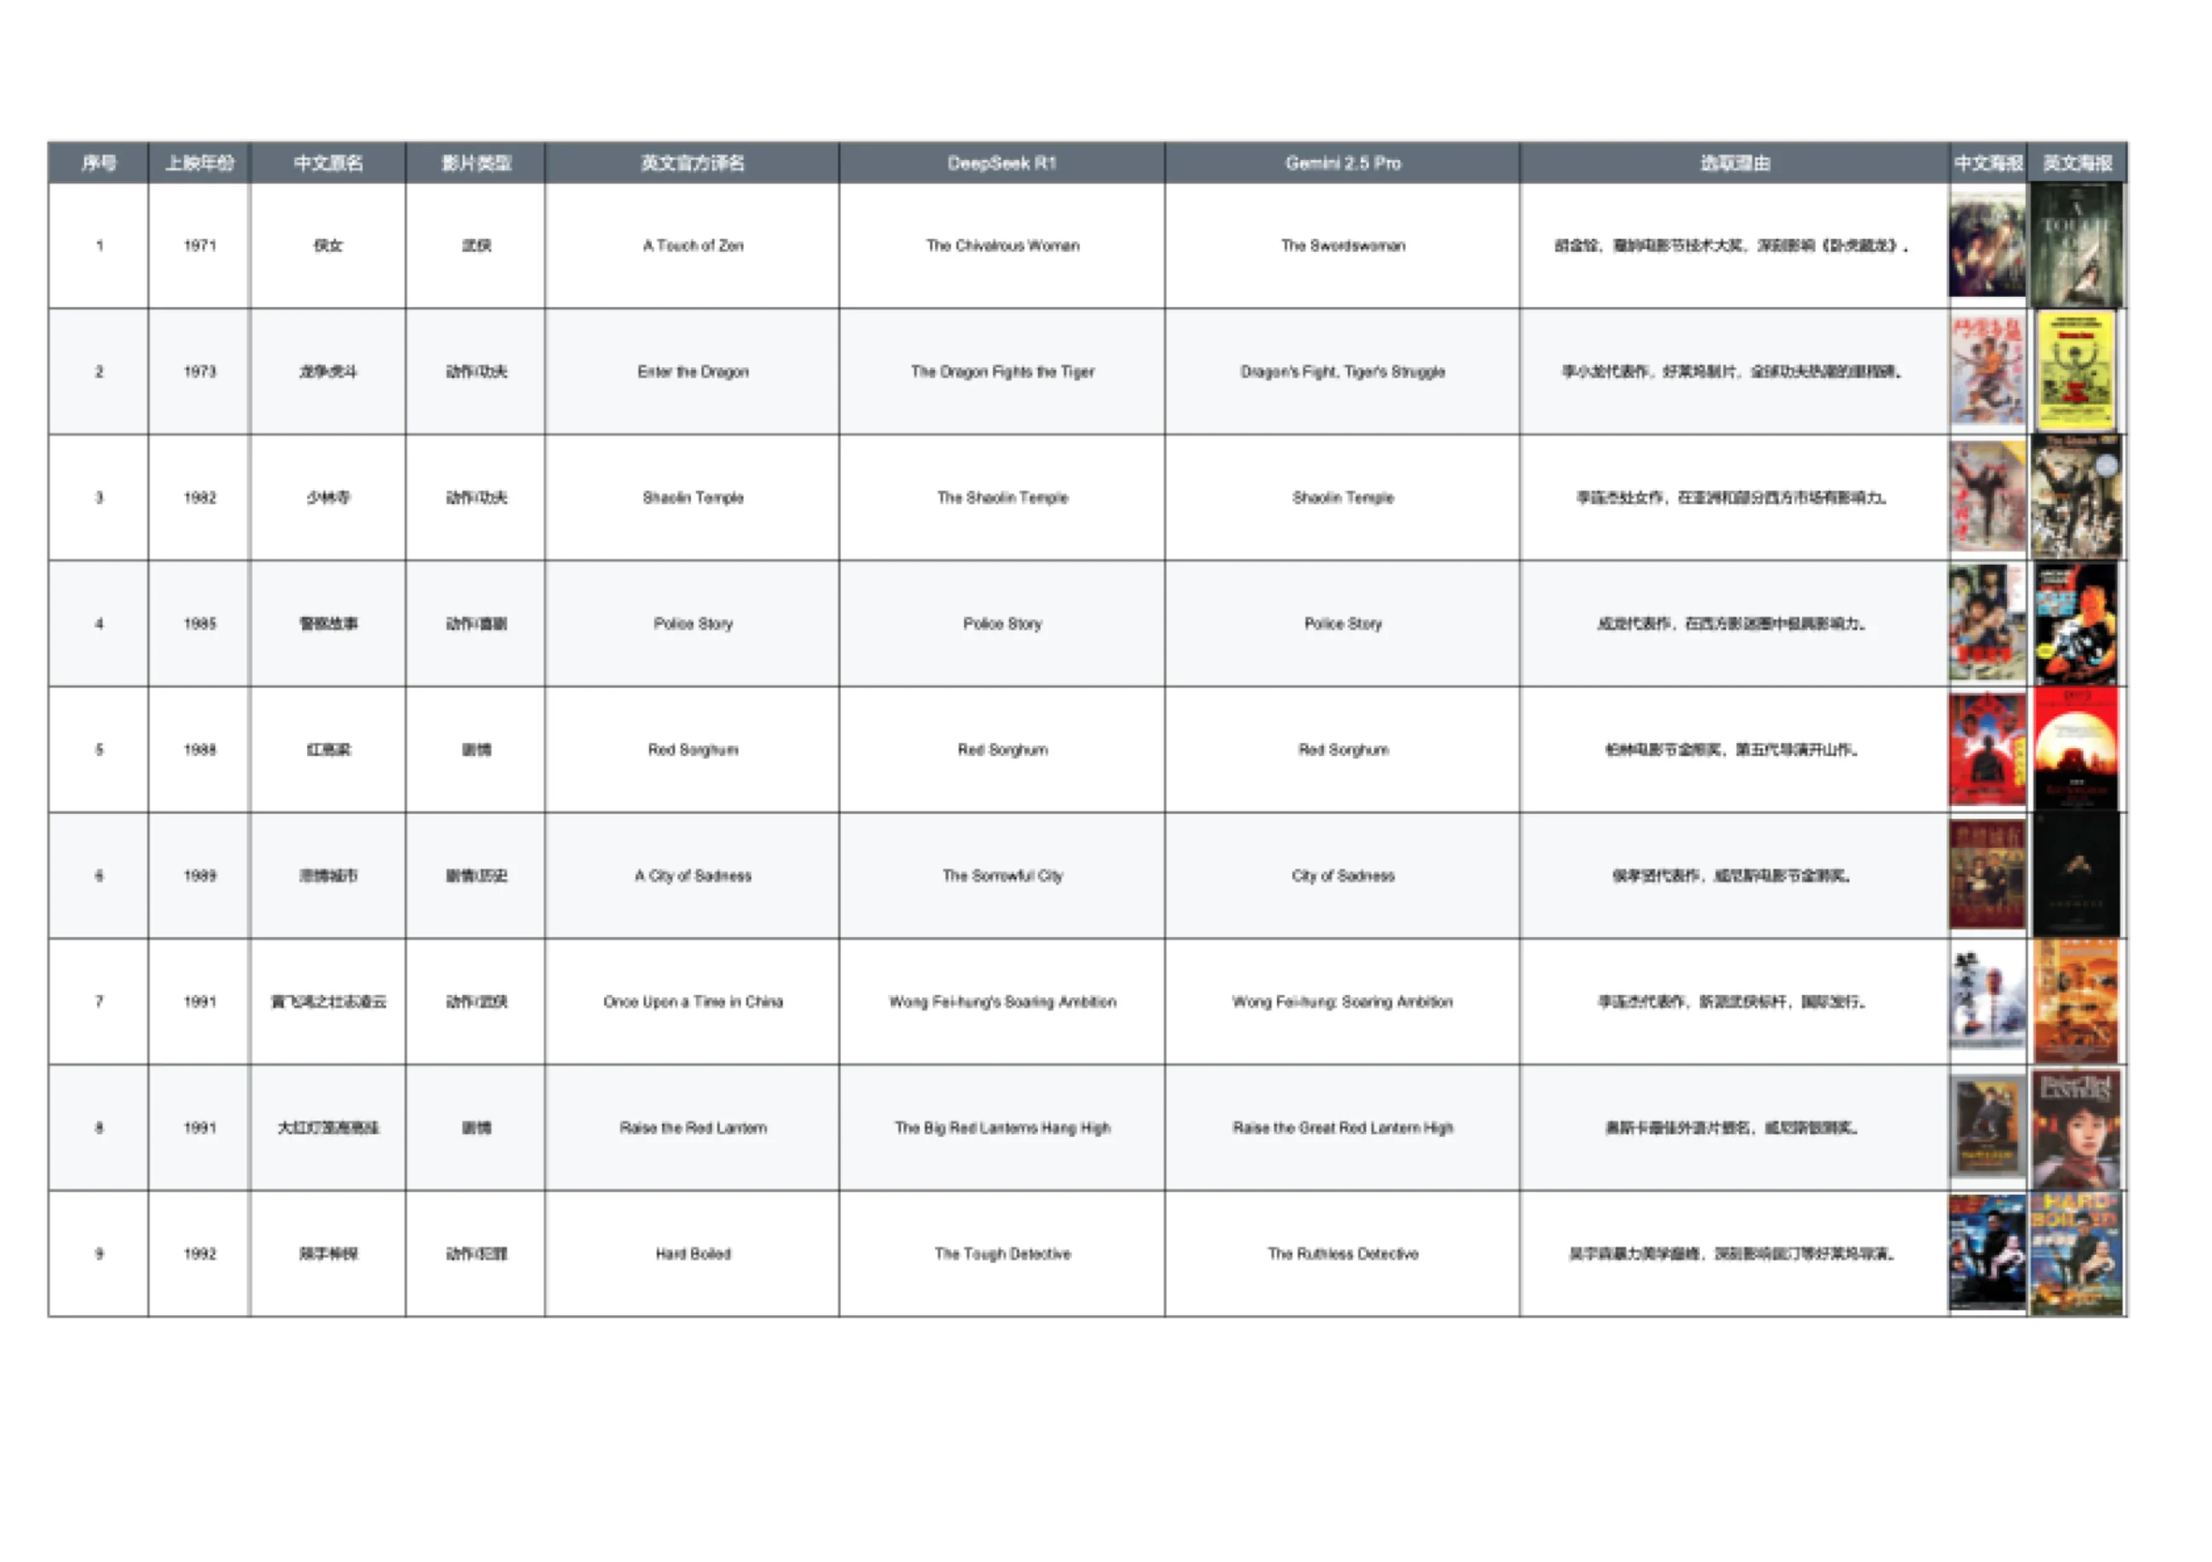
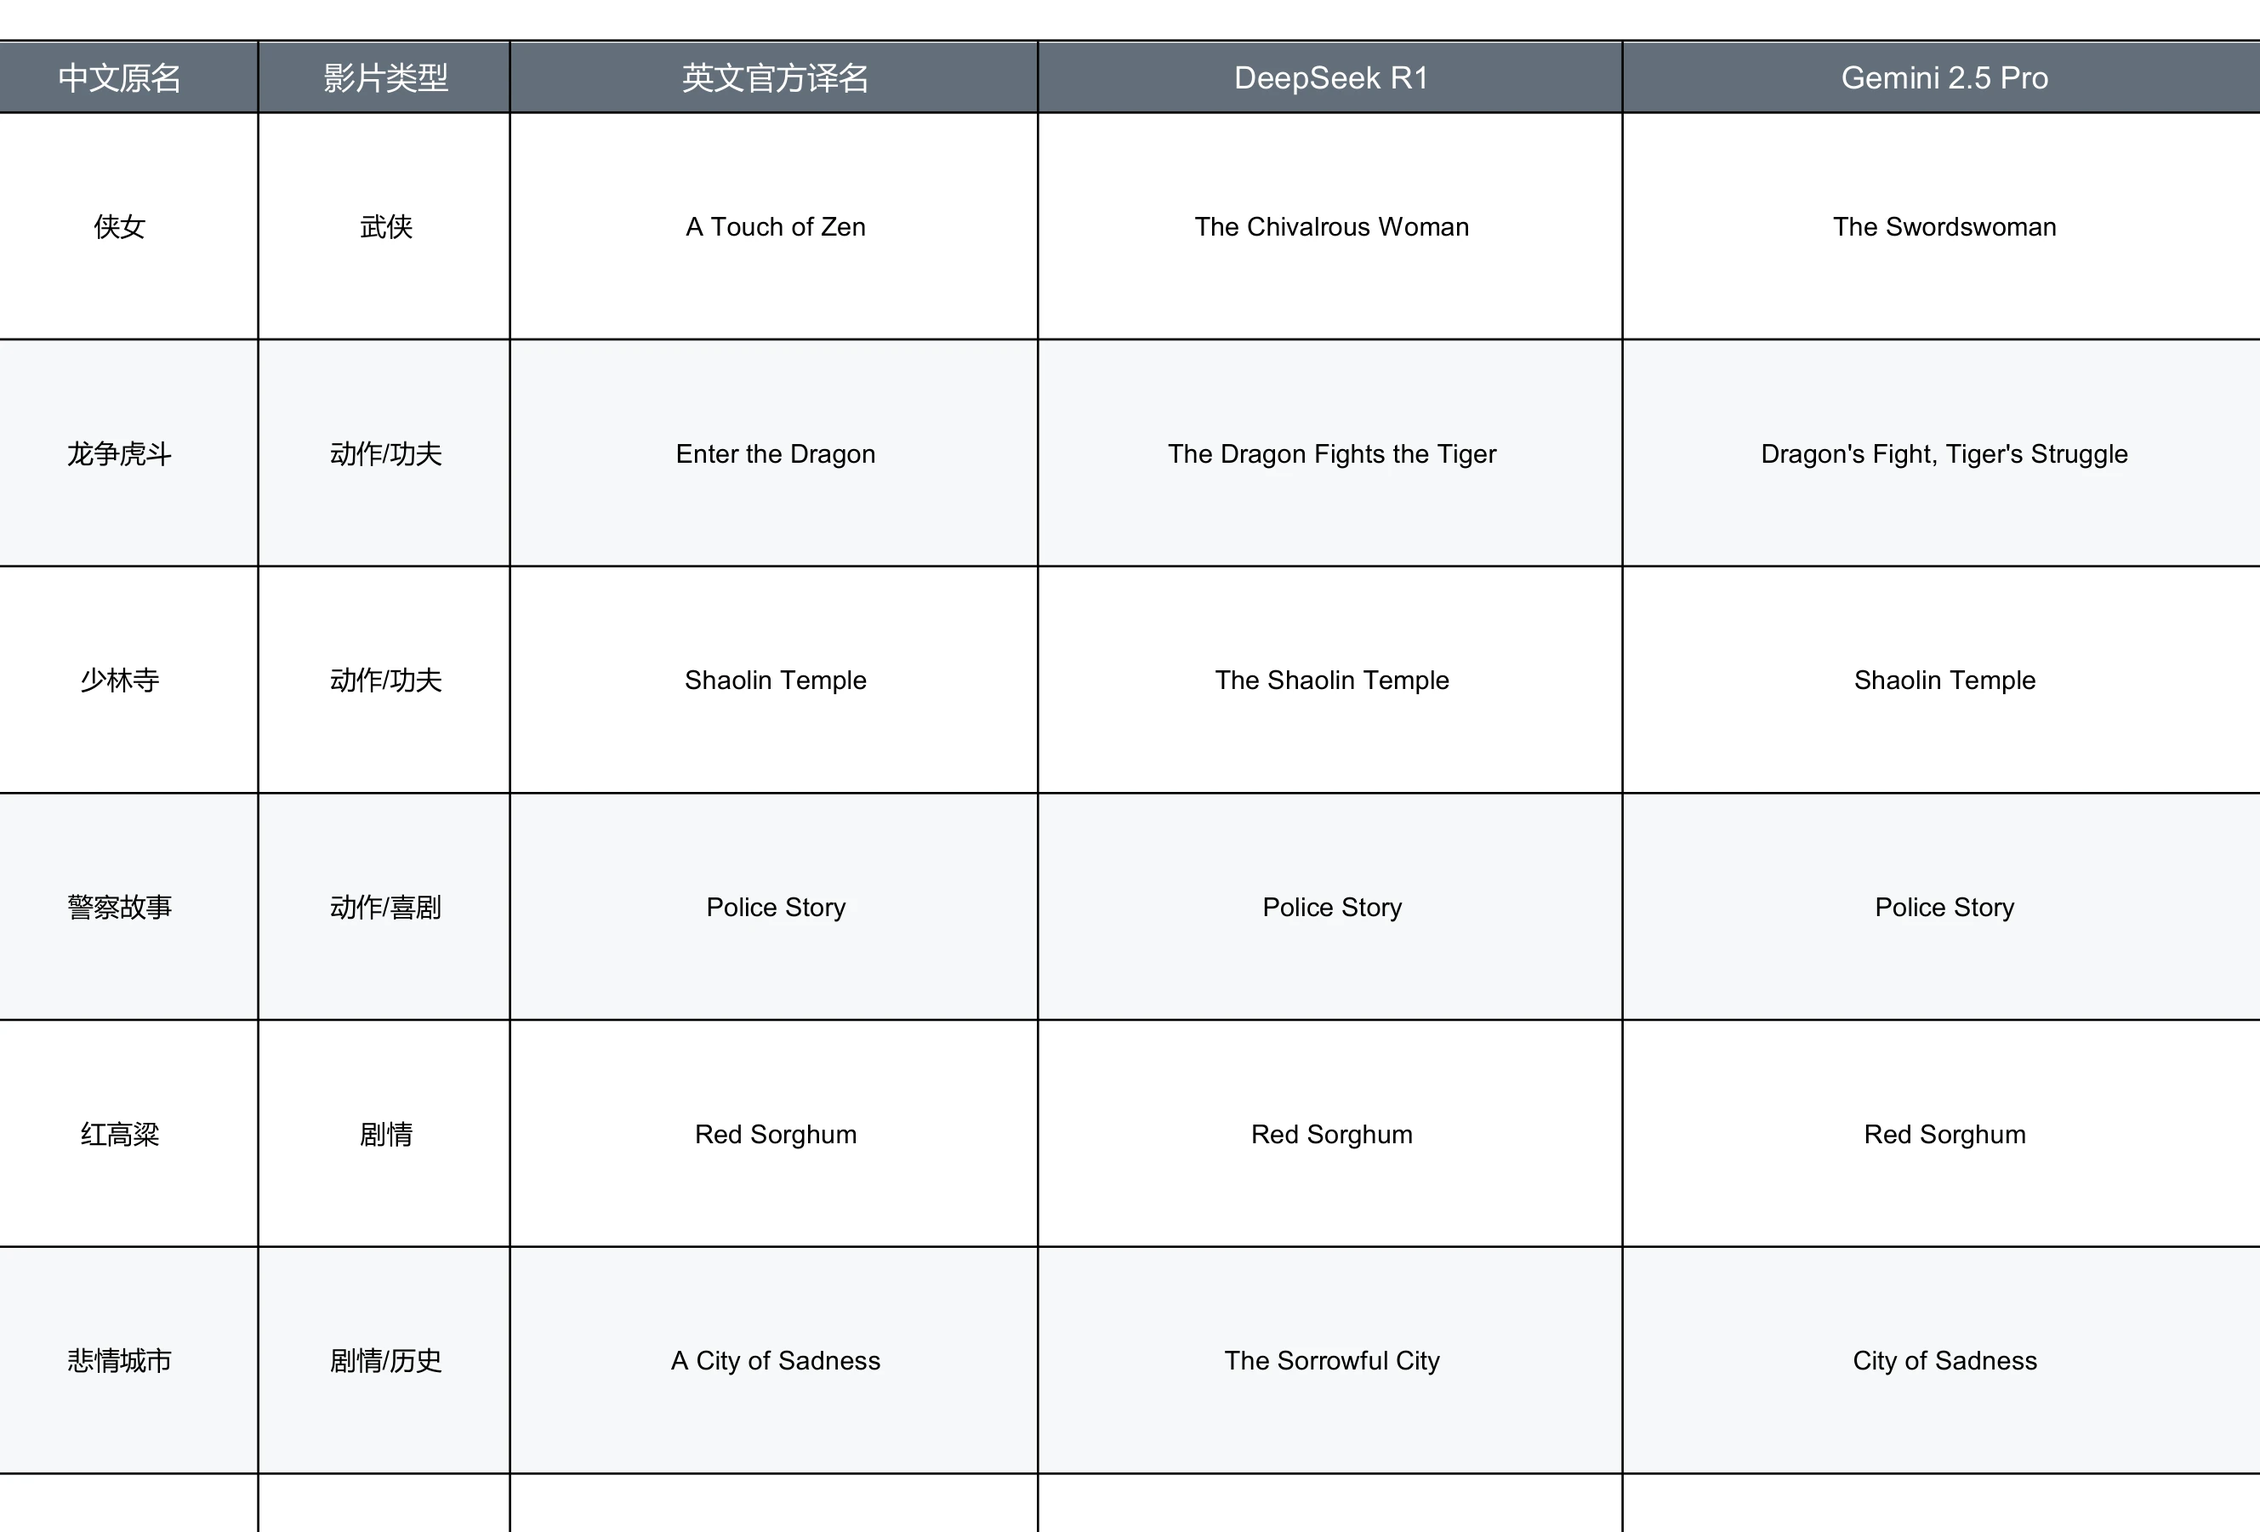
Render the transcreation figures properly and crop them to be readable
The corpus sheet and the poster were still unreadable after the last pass, and
raising the source resolution had not helped because I had misdiagnosed the
cause twice.

**First cause: the wrong tool.** `sips --resampleWidth` upscales a 72 dpi raster
of a PDF rather than re-rendering the vector content at a higher dpi. So both
figures were interpolated blowups of a thumbnail, and every extra pixel I asked
for made the file bigger without adding any detail. PyMuPDF rasterises at a real
dpi. The corpus sheet now renders at 400 dpi and the poster at 900 dpi.

**Second cause: these documents are too dense to show whole.** Measured on the
page, the corpus sheet sets its cells at 5.5 and 6.6 pt on an A4 landscape page,
and the poster runs from 3.1 pt up on a page only 315 pt wide. Displayed whole
at any width this layout allows, that text lands at six to nine CSS pixels. No
amount of sharpening fixes type that small; it has to be cropped.

So each figure is now the region that carries the argument:

- The corpus sheet shows the header and six rows across four columns: source
  title, genre, official English release title, and the two model outputs. Cell
  text renders at 16 CSS pixels. The crop stops on a column rule and a row
  boundary rather than slicing a cell.
- The poster shows the title block and the first of its ten categories in full.
  Body text renders at 15 CSS pixels.

Both captions now carry a "full sheet" link to the complete page, via a new
[…]

diff --git a/content/projects/transcreation.ts b/content/projects/transcreation.ts
@@ -37,12 +37,13 @@ export const transcreation: Project = {
   ],
   hero: {
     src: '/work/transcreation/corpus-dataset.webp',
-    w: 2600,
-    h: 1837,
-    maxW: 1040,
+    w: 2657,
+    h: 1801,
+    maxW: 1180,
+    full: '/work/transcreation/corpus-dataset-full.webp',
     alt: {
-      en: 'The Chinese-to-English corpus sheet: source title, year, genre, official English release title, and the renderings produced by DeepSeek R1 and Gemini 2.5 Pro, with poster references.',
-      zh: '汉译英语料表：原片名、上映年份、影片类型、英文官方译名，以及 DeepSeek R1 和 Gemini 2.5 Pro 各自的输出，右侧附中英海报。',
+      en: 'Six rows of the Chinese-to-English corpus sheet, showing for each film the source title, genre, official English release title, and the renderings produced by DeepSeek R1 and Gemini 2.5 Pro.',
+      zh: '汉译英语料表的六行：每部影片的原片名、影片类型、英文官方译名，以及 DeepSeek R1 和 Gemini 2.5 Pro 各自给出的译名。',
     },
   },
   links: [],
@@ -103,16 +104,18 @@ export const transcreation: Project = {
     {
       kind: 'figure',
       src: '/work/transcreation/course-poster.webp',
-      w: 1800,
-      h: 2543,
-      maxW: 620,
+      w: 2675,
+      h: 1825,
+      maxW: 1040,
+      wide: true,
+      full: '/work/transcreation/course-poster-full.webp',
       alt: {
-        en: 'The original course poster on Chinese-English film title translation, organising examples into ten labelled strategy categories.',
-        zh: '最初的课程展示海报《电影标题的中英翻译》，把案例归入十个带标签的策略类别。',
+        en: 'A detail of the original course poster on Chinese-English film title translation: the title, and the first of ten labelled strategy categories with its strategy, theoretical basis, examples and comparison against machine translation.',
+        zh: '最初那张课程海报《电影标题的中英翻译》的局部：标题，以及十个策略类别中的第一个，含策略、理论依据、示例，以及与机器翻译的对比。',
       },
       caption: {
-        en: 'Where this started: a course poster for an English-Chinese contrastive translation class, sorting film titles into ten strategy categories. The paper exists because of what is wrong with it. Categories at this level record **what was done**, such as literal rendering, domestication or adding context, and say nothing about why one choice worked and its neighbour did not. Moving from a label to a mechanism is the whole distance between that poster and the three-tier model.',
-        zh: '起点是这张海报：英汉对比翻译课上的小组展示，把片名分到十个策略类别里。后来的论文，恰恰是从这张海报的不足长出来的。这个层级的分类记下的是**做了什么**，比如直译、归化、增补语境，却完全没说清为什么这个选择成立、旁边那个不成立。从一个标签走到一套机制，就是这张海报和三层模型之间的全部距离。',
+        en: 'Where this started: a course poster for an English-Chinese contrastive translation class. It already did more than sort titles into ten categories. Each category carries a stated rationale and a comparison against machine output, so the human-versus-AI question was there from the beginning. What it does not have is a mechanism. The rationale is asserted case by case, which means the categories cannot predict anything about a title they have not already seen. Turning those assertions into an account of what the translator is doing cognitively is the whole distance between this poster and the three-tier model.',
+        zh: '起点是这张海报：英汉对比翻译课上的小组展示。它做的其实不止是把片名分成十类，每一类下面都写了理论依据，还附了跟机器翻译的对比，所以"人对 AI"这个问题从一开始就在。它缺的是机制。理由是一例一说的，于是这套分类对没见过的片名什么也预测不了。把这些逐例的说法，换成一套关于译者在认知上究竟做了什么的解释，就是这张海报和三层模型之间的全部距离。',
       },
     },
     {

diff --git a/components/SectionRenderer.tsx b/components/SectionRenderer.tsx
@@ -3,6 +3,7 @@ import { EvidenceLedger } from './EvidenceLedger';
 import { Pipeline } from './Pipeline';
 import { Reveal } from './Reveal';
 import { SchemaCases } from './SchemaCases';
+import { UI } from '@/content/site';
 import { inline } from '@/lib/inline';
 import type { Locale, Section } from '@/content/types';
 
@@ -118,6 +119,19 @@ export function SectionRenderer({
             </div>
             <figcaption className="mt-3 max-w-2xl text-sm leading-relaxed text-muted text-pretty">
               {inline(section.caption[locale])}
+              {section.full ? (
+                <>
+                  {' '}
+                  <a
+                    href={section.full}
+                    target="_blank"
+                    rel="noopener noreferrer"
+                    className="link-draw whitespace-nowrap font-mono text-2xs uppercase tracking-[0.12em] text-ink"
+                  >
+                    {UI.fullSize[locale]} ↗
+                  </a>
+                </>
+              ) : null}
             </figcaption>
           </figure>
         </Reveal>

diff --git a/content/types.ts b/content/types.ts
@@ -53,6 +53,14 @@ export type Section =
        * of this site shipped.
        */
       maxW?: number;
+      /**
+       * Path to a full-resolution version, linked from the caption.
+       *
+       * Use it when the figure is a crop of a dense document: the crop keeps the
+       * type readable on the page, and this lets a reader who wants the whole
+       * sheet go and get it.
+       */
+      full?: string;
     }
   | {
       kind: 'metrics';
@@ -122,7 +130,7 @@ export interface Project {
   /** Short kicker describing the kind of work. */
   discipline: L;
   tags: string[];
-  hero?: { src: string; alt: L; w?: number; h?: number; maxW?: number };
+  hero?: { src: string; alt: L; w?: number; h?: number; maxW?: number; full?: string };
   links: ProjectLink[];
   /** Headline facts, shown as a spec block at the top of the case study. */
   facts: { label: L; value: L }[];

diff --git a/app/[locale]/work/[slug]/page.tsx b/app/[locale]/work/[slug]/page.tsx
@@ -156,6 +156,18 @@ export default async function CaseStudy({
               className="h-auto w-full"
             />
           </div>
+          {project.hero.full ? (
+            <p className="mt-3">
+              <a
+                href={project.hero.full}
+                target="_blank"
+                rel="noopener noreferrer"
+                className="link-draw font-mono text-2xs uppercase tracking-[0.12em] text-muted hover:text-ink"
+              >
+                {UI.fullSize[locale]} ↗
+              </a>
+            </p>
+          ) : null}
         </Reveal>
       ) : null}
 

diff --git a/content/site.ts b/content/site.ts
@@ -96,6 +96,7 @@ export const UI = {
   sourceTitle: { en: 'Source title', zh: '原片名' },
   humanTitle: { en: 'Human translator', zh: '人工译者' },
   machineTitle: { en: 'Literal / LLM default', zh: '直译或模型默认输出' },
+  fullSize: { en: 'Full sheet', zh: '看完整原图' },
   what: { en: 'What it does', zh: '做什么' },
   why: { en: 'Why it matters for the research', zh: '对研究的意义' },
   writingEmpty: {

diff --git a/scripts/build-pdf-figures.py b/scripts/build-pdf-figures.py
@@ -1,0 +1,118 @@
+#!/usr/bin/env python3
+"""
+Render the two transcreation figures from their source PDFs.
+
+Why this script exists rather than a one-line image export:
+
+`sips --resampleWidth` upscales a 72 dpi raster of a PDF instead of
+re-rendering the vector content, which is how the first version of these
+figures shipped blurry. PyMuPDF rasterises at a real dpi, so text stays sharp.
+
+Sharpness was only half the problem. Both documents are dense: the corpus sheet
+sets its cells at 5.5 and 6.6 pt on an A4 landscape page, and the poster runs
+from 3.1 pt upwards on a 315 pt wide page. Displayed whole at any width the
+layout allows, that text is six to nine CSS pixels tall and unreadable no matter
+how cleanly it is rendered. So each figure is cropped to the region that carries
+the argument, and the full sheet is exported separately for the "full size" link
+in the caption.
+
+The source PDFs are not in this repository. Point the constants below at them.
+
+    python3 scripts/build-pdf-figures.py
+"""
+
+from __future__ import annotations
+
+import os
+import subprocess
+import sys
+from pathlib import Path
+
+try:
+    import fitz  # PyMuPDF
+except ImportError:
+    sys.exit("PyMuPDF is required: python3 -m pip install pymupdf")
+
+ROOT = Path(__file__).resolve().parent.parent
+OUT = ROOT / "public" / "work" / "transcreation"
+
+POSTER = Path(os.environ.get("POSTER_PDF", ROOT.parent / "poster.pdf"))
+CORPUS = Path(
+    os.environ.get(
+        "CORPUS_PDF",
+        Path.home()
+        / "Library/CloudStorage/OneDrive-mail.gdufs.edu.cn/Papers/电影标题翻译研究/Dataset1_C-E.pdf",
+    )
+)
+
+# Crop boxes in PDF points, measured from the text coordinates on each page.
+#
+# Corpus sheet: the header row plus six data rows, and the four columns the
+# comparison actually needs (source title, genre, official English release
+# title, then the two model outputs). The rationale column and the poster
+# thumbnails are cut because they push the type below reading size.
+# Header sits at y=48 and rows repeat every 48 pt, so y=370 closes the sixth
+# row cleanly. x=578 is the column rule before the rationale column, which
+# keeps the right edge from cutting a cell in half.
+CORPUS_CROP = fitz.Rect(100, 46, 578, 370)
+
+# Poster: the title block, the bilingual subtitle and the first labelled
+# category in full. The title spans x=53 to x=209, so the crop has to reach
+# past it. Section 二 is clipped at the right edge on purpose, which reads as a
+# detail rather than a whole, and y=146 stops just above the next heading
+# instead of slicing through it.
+POSTER_CROP = fitz.Rect(0, 0, 214, 146)
+
+JOBS = [
+    # (source, crop, dpi, output stem)
+    (CORPUS, CORPUS_CROP, 400, "corpus-dataset"),
+    (CORPUS, None, 300, "corpus-dataset-full"),
+    (POSTER, POSTER_CROP, 900, "course-poster"),
+    (POSTER, None, 500, "course-poster-full"),
+]
+
+
+def render(src: Path, crop, dpi: int, stem: str) -> None:
+    if not src.exists():
+        sys.exit(f"missing source PDF: {src}")
+
+    doc = fitz.open(src)
+    page = doc[0]
+    pix = page.get_pixmap(dpi=dpi, clip=crop)
+    raw = OUT / f"{stem}.raw.png"
+    pix.save(raw)
+    doc.close()
+
+    target = OUT / f"{stem}.webp"
+    # sharp is already a dependency of the site, so reuse it for the encode
+    # rather than adding a Python imaging stack.
+    quality = "90" if crop is not None else "82"
+    subprocess.run(
+        [
+            "node",
+            "-e",
+            (
+                "const sharp=require('sharp');"
+                f"sharp({raw.as_posix()!r})"
+                f".webp({{quality:{quality},effort:6}})"
+                f".toFile({target.as_posix()!r})"
+                ".then(i=>console.log(`  ${i.width}x${i.height}`));"
+            ),
+        ],
+        cwd=ROOT,
+        check=True,
+    )
+    raw.unlink()
+    size_kb = round(target.stat().st_size / 1024)
+    print(f"{target.relative_to(ROOT)}  {size_kb} kB")
+
+
+def main() -> None:
+    OUT.mkdir(parents=True, exist_ok=True)
+    for src, crop, dpi, stem in JOBS:
+        print(f"{stem}: {src.name} @ {dpi} dpi" + (f" clip {crop}" if crop else " full page"))
+        render(src, crop, dpi, stem)
+
+
+if __name__ == "__main__":
+    main()
